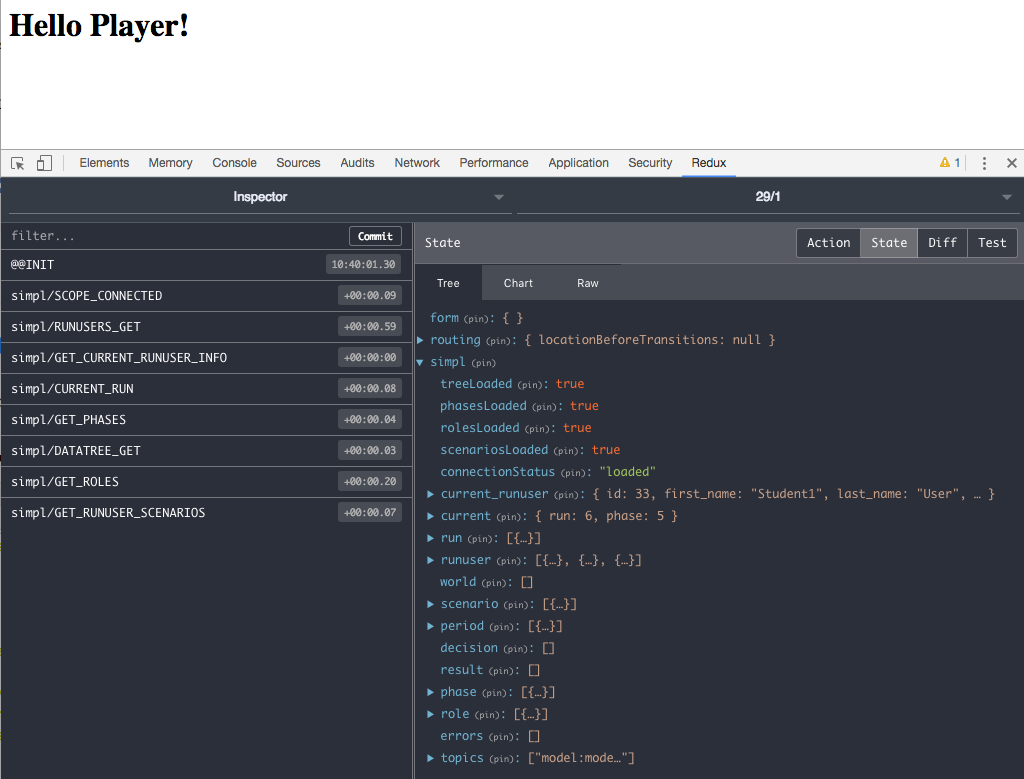
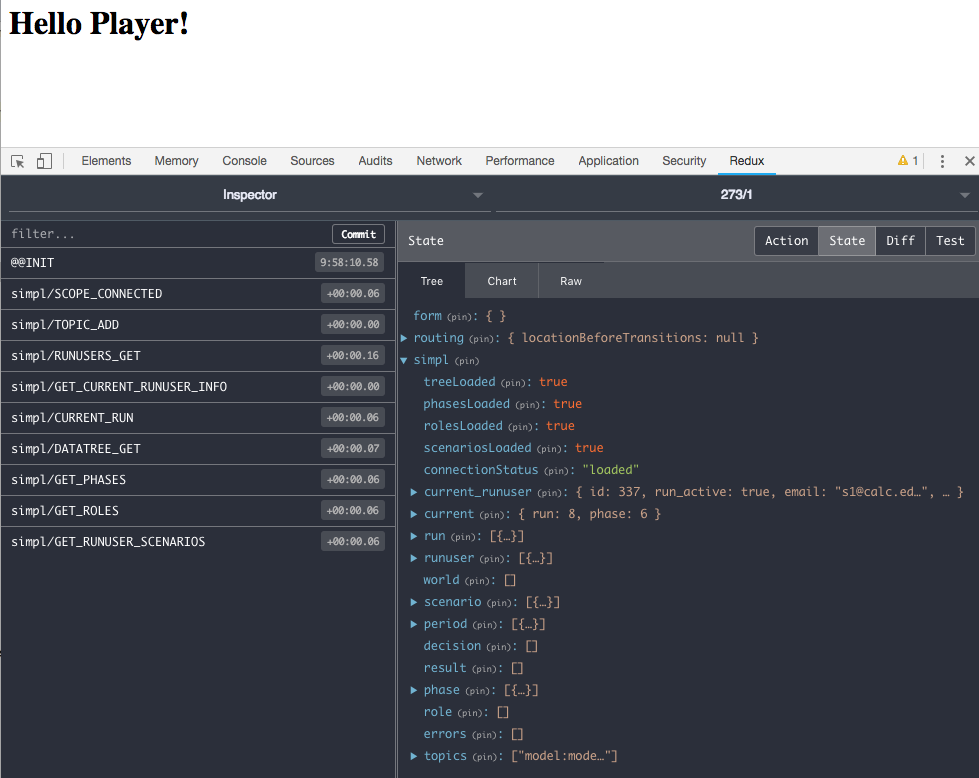
Updated simpl state image and description.

diff --git a/_docs/tutorials/single-player/frontend.md b/_docs/tutorials/single-player/frontend.md
@@ -83,7 +83,7 @@ It is also recommended you configure your editor to integrate with ESLint:
 
 ### Configuration
 
-Like most Websites, the frontend service will need a place where it can store information about sessions and their users. 
+Like most websites, the frontend service will need a place where it can store information about sessions and their users. 
 The user's specific information will be fetched from the [Simple Games API]({% link _docs/getting-started.md %}) and kept in sync automatically.
 
 **NOTE** For the purposes of this tutorial we're going to use SQLite, but this can be changed to match whatever database backend you prefer. 
@@ -117,7 +117,7 @@ You will connect your components to the properties and they will update accordin
 
 Next, logout by going to `localhost:8000/logout/` in your browser. Then login as `leader@calc.edu` with password `leader`.
 Once you are logged in, you should see the 'Hello Leader' message of the skeleton app. If you look at the `simpl`
-state properties, they look similar to those of players. Only information about the current user has been loaded.
+state properties, you'll see all the run's runusers have been loaded. No player scenarios have been loaded.
 
 <img src="/assets/img/tutorials/single-player/Hello_Simpl_Leader1.png" width="100%">
 
@@ -158,7 +158,7 @@ export default simpl({
 })(RootContainer);
 ```
 
-Refresh your Chrome browser page and you'll see all the run's runusers have been loaded into the `simpl` state.
+Refresh your Chrome browser page and you'll see all the run's player scenarios have been loaded into the `simpl` state.
 
 <img src="/assets/img/tutorials/single-player/Hello_Simpl_Leader2.png" width="100%">
 
